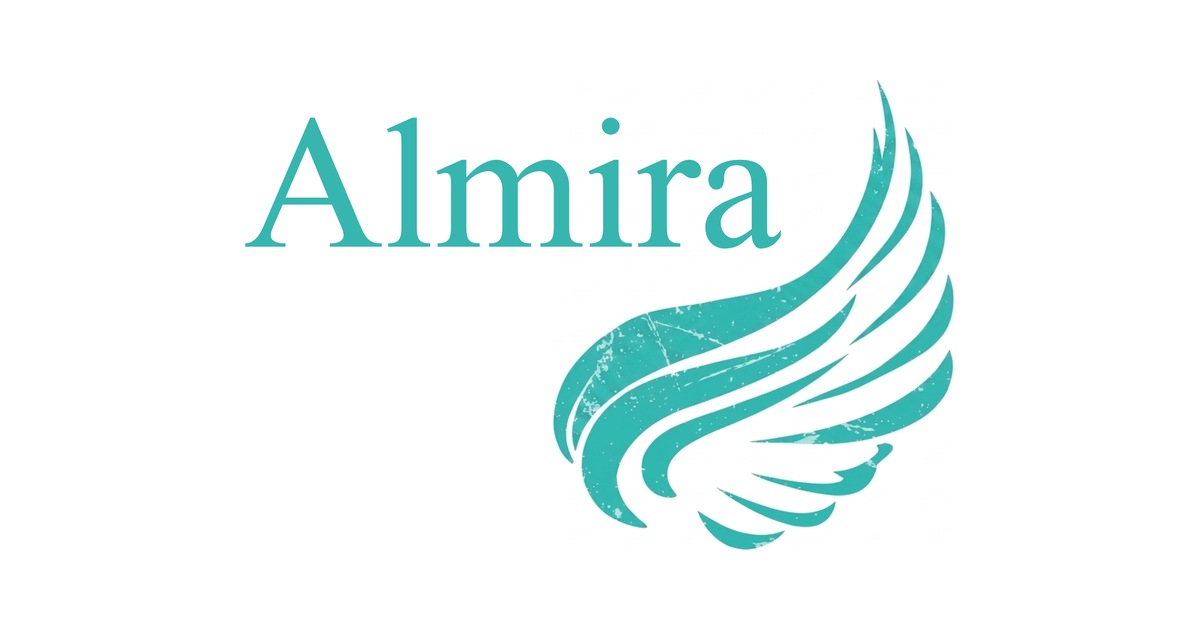
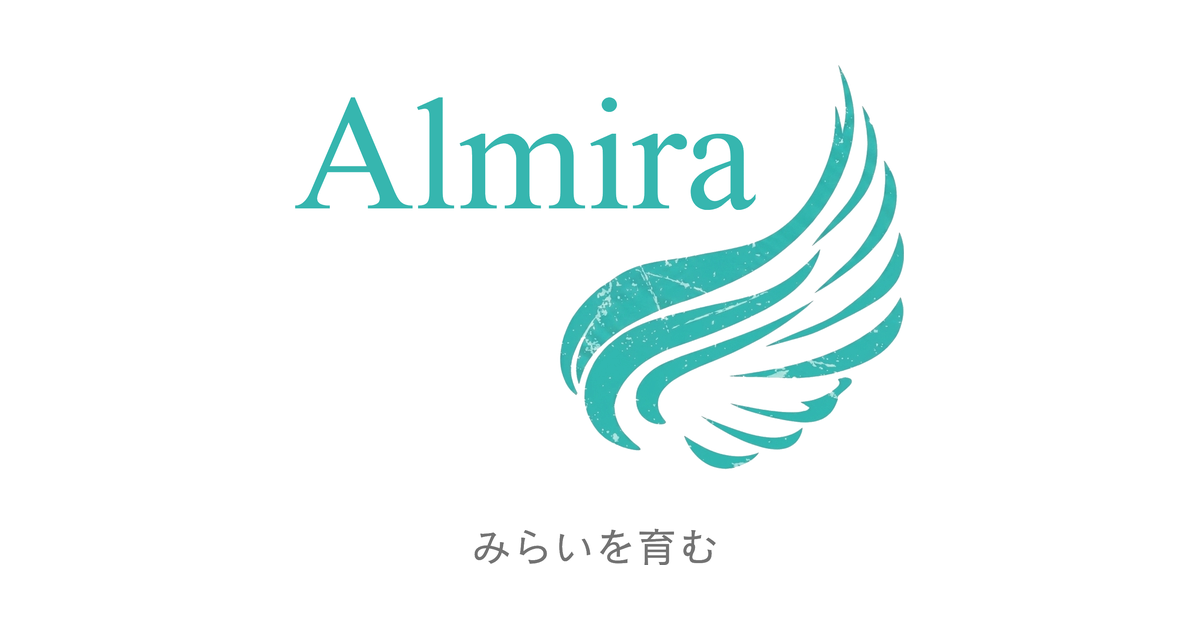
ロゴをタグライン「みらいを育む」入りの新版に差し替え

Changed region(s): [[0.185, 0.1206, 0.8017, 0.9048]]

diff --git a/index.html b/index.html
@@ -36,7 +36,7 @@
 <main>
   <section class="hero">
     <div class="container">
-      <img src="almira-logo.png" alt="Almira" class="hero-logo" width="168" height="56">
+      <img src="almira-logo.png" alt="Almira みらいを育む" class="hero-logo" width="200" height="88">
       <h1 class="hero-title">医療の目を、<br>全ての家庭に。</h1>
       <p class="hero-lead">アルミラ株式会社は、乳幼児向けバイタルモニタリングサービスの開発を通じて、<span class="nowrap">生まれたその日から、</span>どの家庭にも等しく医療の目が届く社会をつくります。</p>
     </div>

diff --git a/style.css b/style.css
@@ -89,8 +89,8 @@ a:focus-visible {
 .hero-logo {
   display: block;
   width: auto;
-  height: 56px;
-  margin-bottom: 48px;
+  height: 88px;
+  margin-bottom: 40px;
 }
 .hero-eyebrow {
   color: var(--teal-dark);
